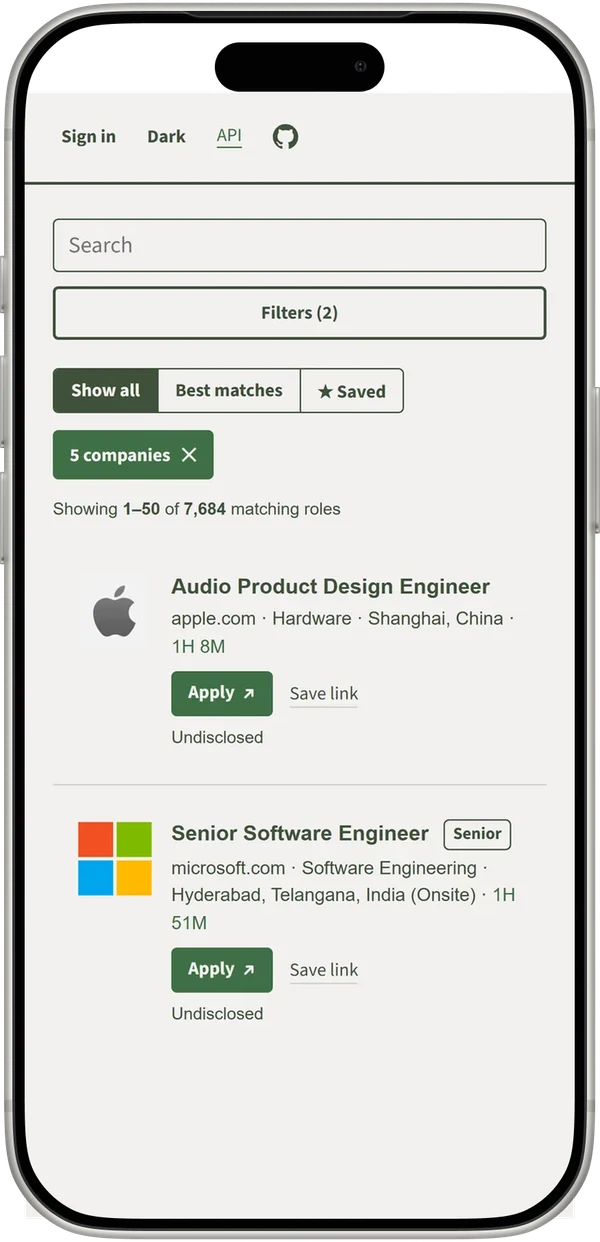
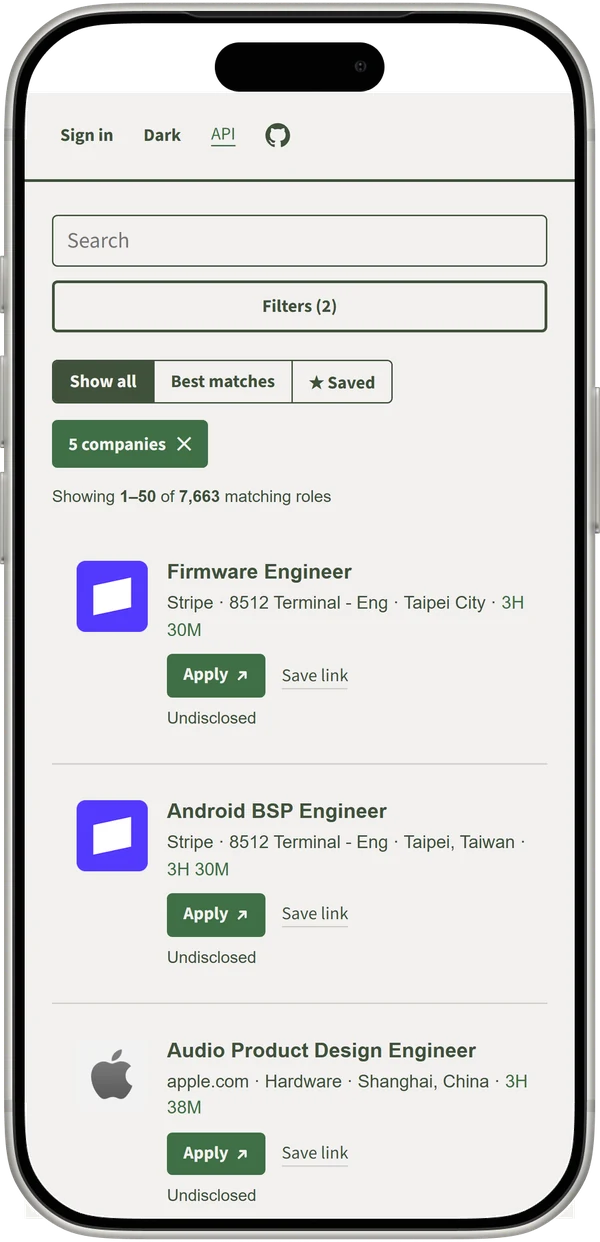
Show the lid only, and cut both devices off at the card's foot
The laptop mockup is the screen-only one now: lid, bezel and hinge lip,
no keyboard deck. Both devices get a fixed height shorter than their own
image with the picture anchored top, so the card crops each at the foot
rather than fitting it whole.

The phone board is re-shot at the mockup's own screen aspect (0.4879) so
it fills the glass instead of leaving paper below the last listing, and
both composites are masked to the screen's hole rather than pasted as a
rectangle, which had been leaving white squares outside the rounded
corners.

Two attempts at the laptop screen matched the hinge lip (670x13, then
669x17) and punched the lid transparent. Its screen is a transparent hole
like the phone's, not a black fill; the bands I matched were the top
bezel and the lip.

diff --git a/frontend/style.css b/frontend/style.css
@@ -3496,15 +3496,15 @@ body.explore-busy .explore-metric { color: var(--green-text); }
    and finish are the mockup's own. One element, one image, no parts. */
 .showcase-device {
   width: min(980px, 100%);
-  aspect-ratio: 1.6546;
+  height: clamp(210px, 30vw, 430px);
   margin: clamp(36px, 5vw, 72px) auto 0;
-  background: url("/img/device-macbook.webp") bottom center / contain no-repeat;
+  background: url("/img/device-macbook.webp") top center / 100% auto no-repeat;
 }
 @media (max-width: 720px) {
   /* The phone mockup instead, carrying the board's own phone layout. */
   .showcase-device {
     width: min(300px, 78%);
-    aspect-ratio: 0.4831;
+    height: clamp(300px, 80vw, 420px);
     background-image: url("/img/device-iphone.webp");
   }
 }
